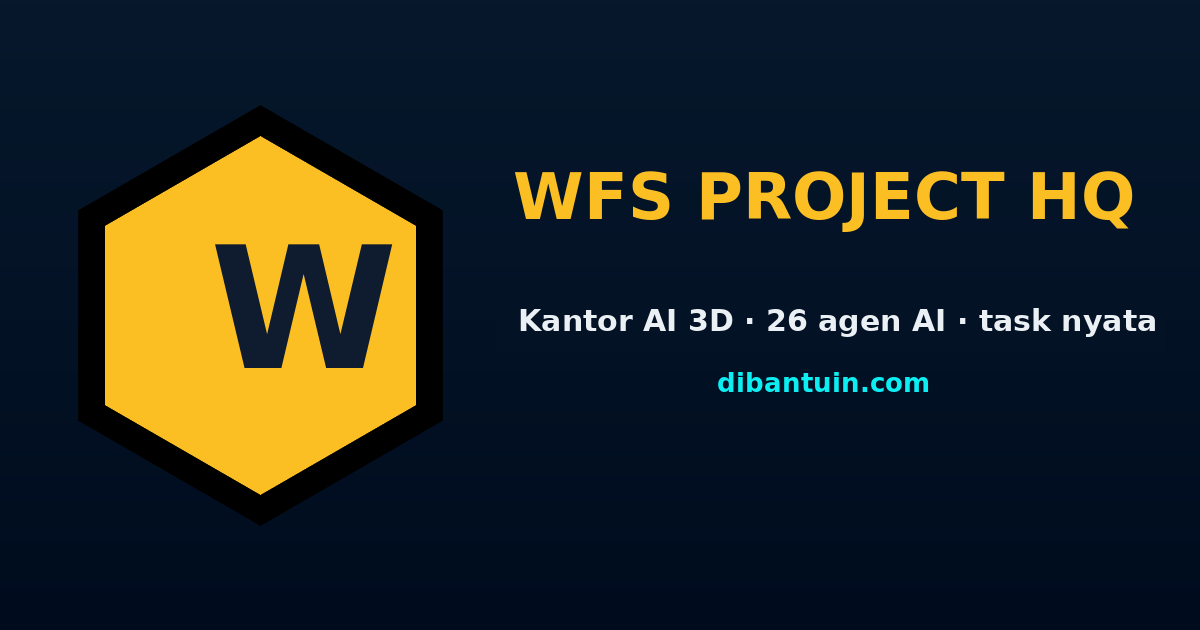
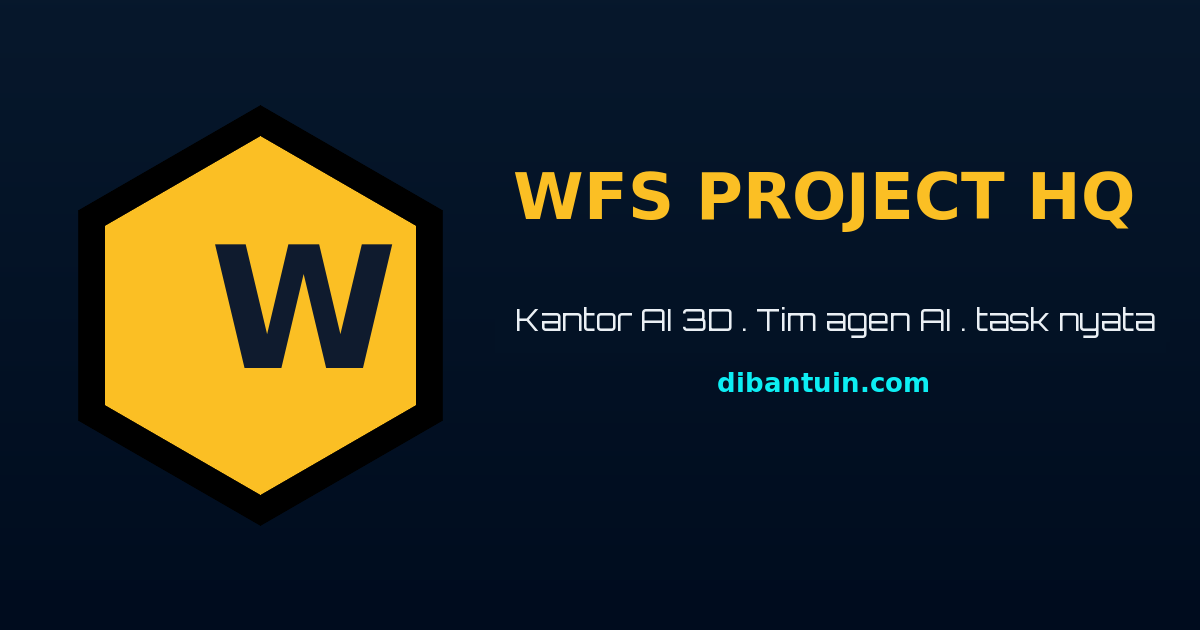
Siklus 630: og-image.png caption '26 agen AI' -> 'Tim agen AI' (paritas meta 627-629), guard 608 kontrak baru

Changed region(s): [[0.4317, 0.4825, 0.9558, 0.5429]]

diff --git a/src/__tests__/og_image_caption_608.test.js b/src/__tests__/og_image_caption_608.test.js
@@ -6,21 +6,16 @@ import fs from 'node:fs'
 import path from 'node:path'
 import { fileURLToPath } from 'node:url'
 import { describe, expect, test } from 'vitest'
-import { allAgents } from '../scene/parts/agents_spec.js'
-import { EXTENDED_SPECIALISTS } from '../scene/parts/extended_desks.js'
-
 const root = path.resolve(path.dirname(fileURLToPath(import.meta.url)), '../..')
 const png = path.join(root, 'public/og-image.png')
 
-// Caption pada og-image.png harus mengikuti jumlah agen riil di scene:
-// allAgents() (AGENTS + AGENTS_EXTRA) + EXTENDED_SPECIALISTS (guard anti-drift, siklus 608).
-const agentCount = allAgents().length + EXTENDED_SPECIALISTS.length
-const expectedCaption = `Kantor AI 3D · ${agentCount} agen AI · task nyata`
+// Siklus 630: caption og-image tak lagi menyebut angka spesifik "26 agen AI"
+// (paritas dengan meta landing/index sejak 627-629 yang memakai "tim agen AI").
+const expectedCaption = 'Kantor AI 3D · Tim agen AI · task nyata'
 
-describe('og-image.png siklus 608', () => {
-  test('caption og-image konsisten dgn jumlah agen scene', () => {
-    expect(agentCount).toBe(26)
-    expect(expectedCaption).toBe('Kantor AI 3D · 26 agen AI · task nyata')
+describe('og-image.png siklus 608/630', () => {
+  test('caption og-image tanpa klaim jumlah agen spesifik', () => {
+    expect(expectedCaption).toBe('Kantor AI 3D · Tim agen AI · task nyata')
     // Siklus 629: index.html og/twitter:description kini "tim agen AI" (tanpa angka spesifik)
     const html = fs.readFileSync(path.join(root, 'index.html'), 'utf8')
     expect(html).toContain('tim agen AI bekerja')
@@ -34,6 +29,13 @@ describe('og-image.png siklus 608', () => {
     // IHDR: width/height big-endian pada offset 16..24
     expect(buf.readUInt32BE(16)).toBe(1200)
     expect(buf.readUInt32BE(20)).toBe(630)
+  })
+
+  test('guard kontrak 630: caption meta tidak menyebut "26 agen"', () => {
+    // meta HTML tetap bebas angka; caption PNG kini konstanta tanpa interpolasi
+    const landing = fs.readFileSync(path.join(root, 'public/landing.html'), 'utf8')
+    expect(landing).not.toMatch(/og:description" content="[^"]*\b26\b/)
+    expect(landing).toContain('tim agen AI')
   })
 
   test('tidak ada teks usang "15 agent AI" tersemat di PNG', () => {

diff --git a/DEV_LOG.md b/DEV_LOG.md
@@ -8908,3 +8908,10 @@
 - Guard diperbarui agar kontrak baru: head_meta_consistency_416, landing_meta_parity_613, landing_og_seo_617, og_twitter_parity_607, og_image_caption_608, manifest_description_417. Guard baru landing_meta_truth_629 (3 kasus: description kanonik tanpa "26" + paritas, og/twitter tanpa "26" + paritas, JSON-LD & manifest tanpa "26").
 - Verifikasi: build vite sukses (precache 48, 1787.95 KiB); dist landing/index/manifest grep "26 agen" = 0; vitest penuh 455 file / 4683 pass + 6 skip / 0 fail (608.89 s); deploy dist → ~/wfs-hq, :9503 serve meta baru di /, /landing.html, /manifest.webmanifest; probe e2e_err_probe.py OK — 0 console/page error, init_failed=false, 26 agen hook, shot 701019 B.
 - Sisa backlog (butuh keputusan user): (a) cutover :8787-Docker; (b) saas-dibantuin push — repo GitHub belum ada; (d) keputusan omniroute.
+
+## 19/11/2026 03:35 WIB — Siklus 630: og-image.png tidak lagi mengklaim "26 agen AI"
+
+- Defek riil (lanjutan 627-629): aset preview sosial og-image.png masih menampilkan tagline "Kantor AI 3D · 26 agen AI · task nyata" — gambar inilah yang tampil di kartu WhatsApp/Telegram/X, dan 629 hanya membersihkan meta teks, bukan PNG-nya.
+- og-image.png diregenerasi: band tagline lama dihapus dengan sampling latar baris bersih di atasnya (tanpa smudge), lalu teks baru "Kantor AI 3D . Tim agen AI . task nyata" digambar di posisi/ukuran/warna yang sama (Orbitron 31px, warna #EBF0F5, left-align x=515 sejajar judul). Ukuran file tetap 1200x630 PNG, ~33.8 KB.
+- Guard og_image_caption_608 diperbarui ke kontrak 630: caption konstanta tanpa "26 agen", +1 kasus (meta landing tetap bebas angka), impor agents_spec/extended_desks tidak lagi diperlukan.
+- Verifikasi: build vite sukses; vitest penuh 455 file / 4684 pass + 6 skip / 0 fail (600s); dist → ~/wfs-hq; :9503/og-image.png serve PNG baru (33799 B); inspeksi visual: tanpa tofu/artefak, separator titik render bersih.
